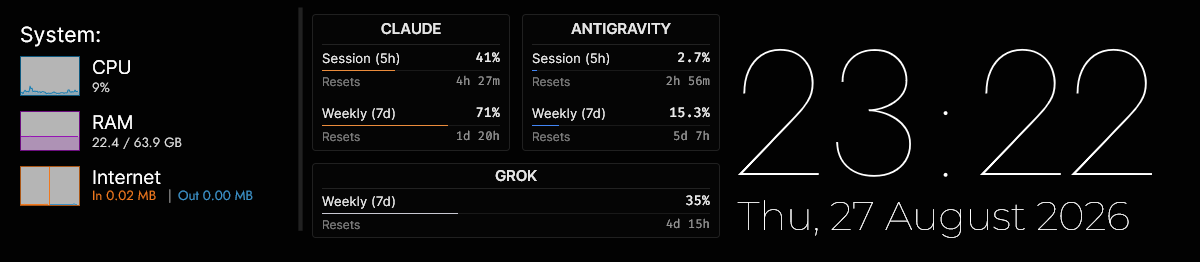
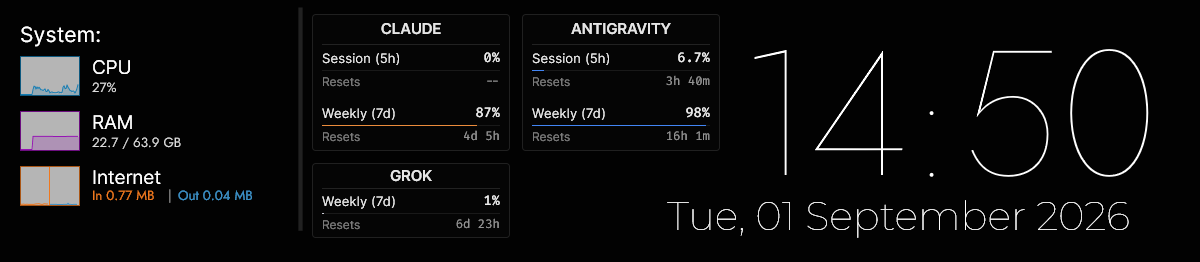
Narrow Grok to Claude's width so it no longer hits the date

diff --git a/README.md b/README.md
@@ -89,7 +89,7 @@ Everything positional lives in `[Variables]` at the top of `bar.ini`.
 | `BarWidth` / `BarHeight` | Overall size, 1200×262 |
 | `BgColor` / `BgMainAlpha` | Substrate, dark at 38/255 |
 | `SysX`, `SysRow1Y`, `SysRowH` | Left system block |
-| `AIX`, `AIWideW`, `AITopY`, `AITopH`, `AIGrokY`, `AIGrokH` | The three panels |
+| `AIX`, `AIX2`, `AIPanelW`, `AITopY`, `AITopH`, `AIGrokY`, `AIGrokH` | Claude / Antigravity / Grok (Grok is `#AIPanelW` under Claude) |
 | `ClockX`, `ClockY`, `ClockSize`, `DateY` | Right column, nudged independently of content |
 | `AIPanelBg`, `AIPanelEdge`, `AI*Accent` | Panel fill, hairline border, per-service bar colour |
 
